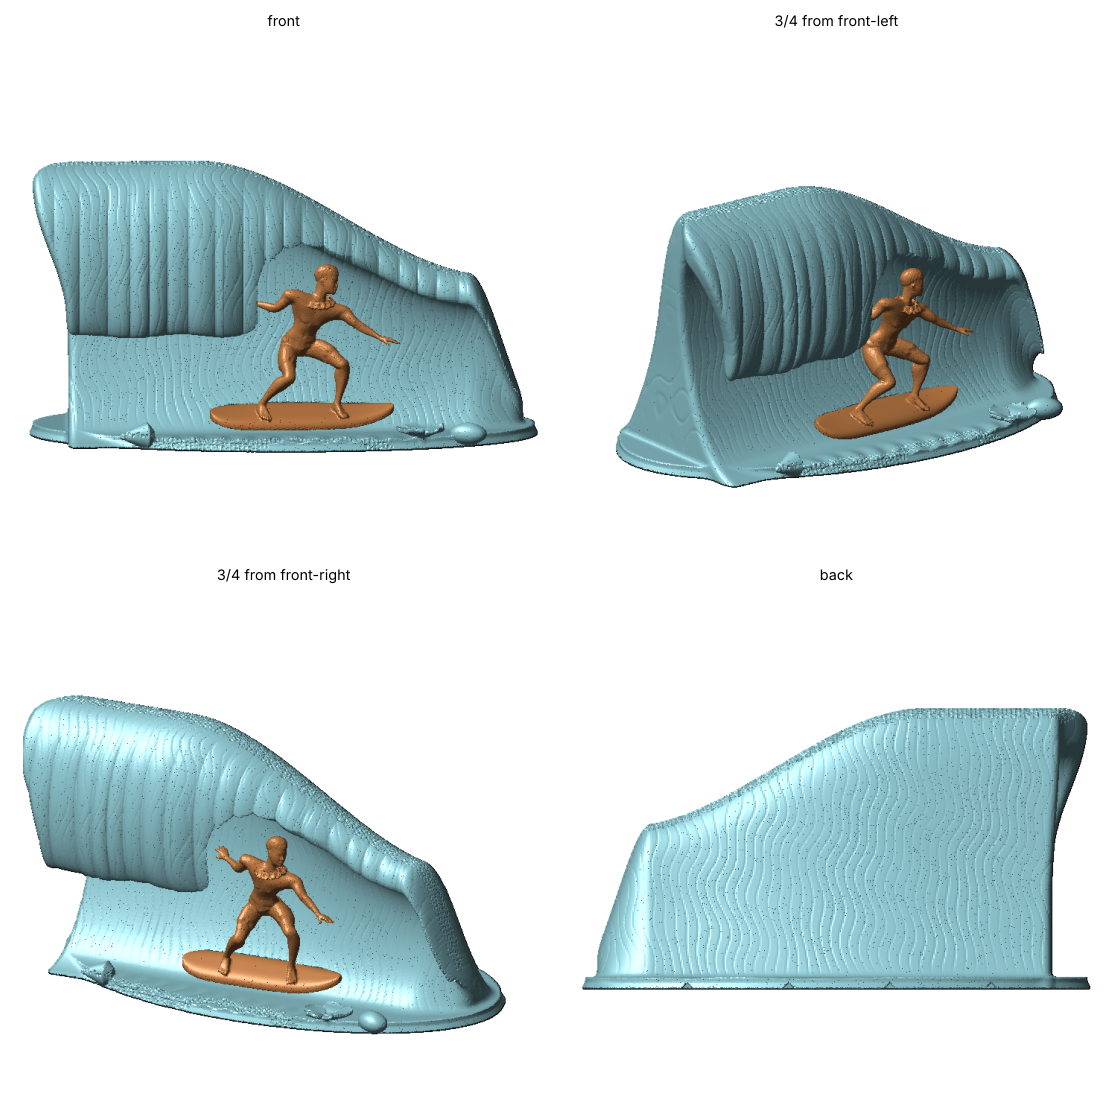
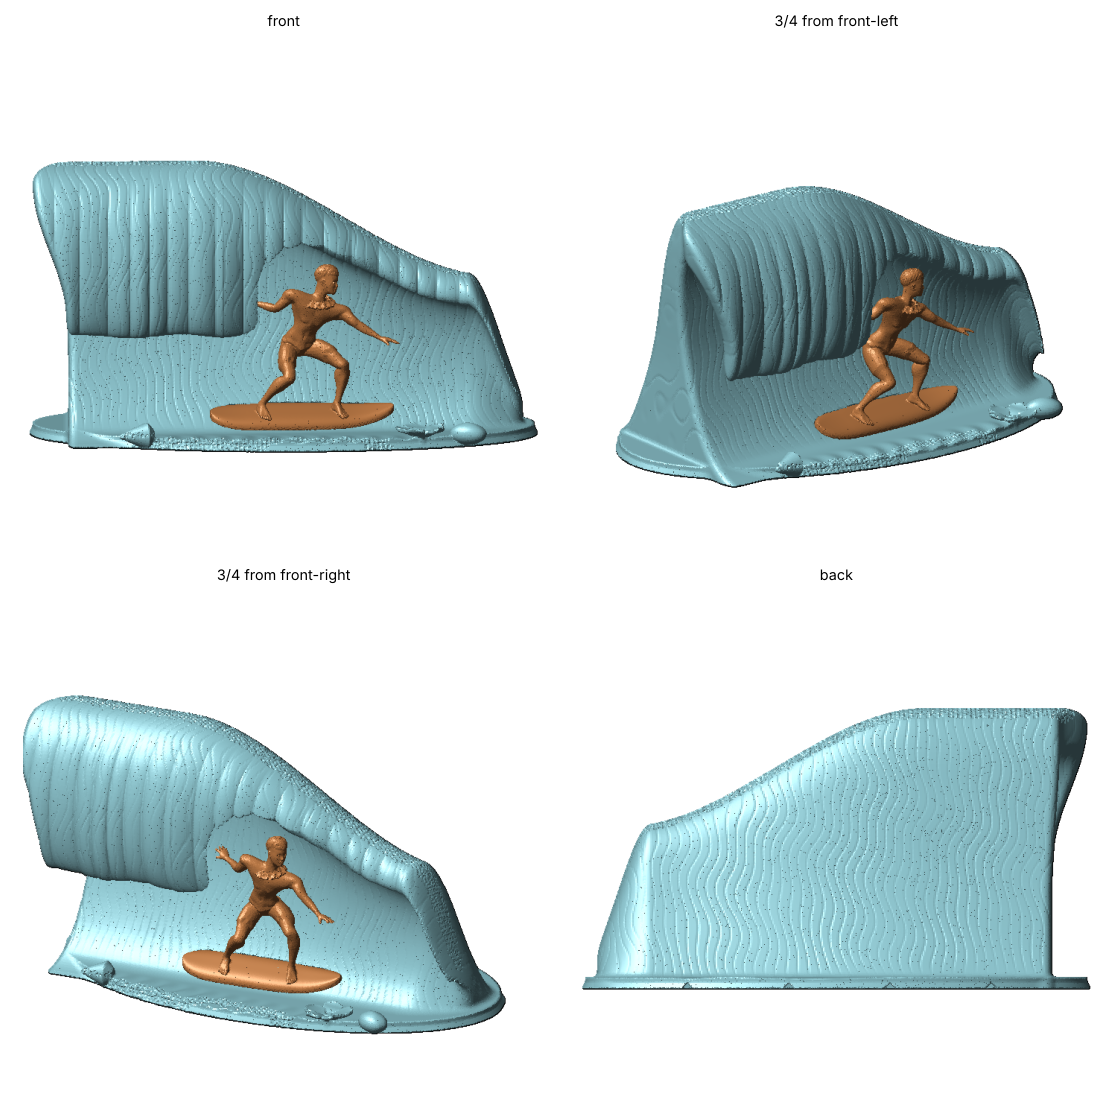
nalu: surfer between detailed and stylized
Lighter smoothing so the face, hands and knees read again; the chest
stays flat and the shorts stay clean.

Claude-Session: https://claude.ai/code/session_017ftLatXiQgThsoC1M9thCT

Changed region(s): [[0.3438, 0.75, 0.375, 0.7812]]

diff --git a/3d-prints/nalu/nalu.py b/3d-prints/nalu/nalu.py
@@ -463,7 +463,7 @@ def body_sdf(G, X, Y, Z, spacing=0.05):
     side_ax = np.cross(ax, [0, 0, 1.0]) + 1e-9
     side_ax /= np.linalg.norm(side_ax)
     g = 0.5 + 0.5 * np.cos(2 * np.pi * (rel @ side_ax + 0.4 * np.sin(rel @ ax * 0.9)) / 0.7)
-    d = d - hm * (0.9 - 0.25 * g ** 4)                   # a carved cap of hair, combed back
+    d = d - hm * (0.95 - 0.3 * g ** 4)                   # hair combed back in shallow waves
     d[far] = 4.0
     G["_last_shorts"] = np.where(far, 0.0, sh[j]).reshape(X.shape).astype(np.float32)
     return d.reshape(X.shape).astype(np.float32)
@@ -528,7 +528,7 @@ def build_surfer(voxel, quiet=False, region=None):
         body = np.minimum(body, lei_sdf(X, Y, Z, G["lei"]))
         vol[sx] = smin(board, body, 0.4)
     say(f"  surfer {time.time() - t0:.0f}s")
-    drape(vol, np.ones_like(vol), voxel, r=0.7)        # carved look: fingers and toes fused, crevices softened
+    drape(vol, np.ones_like(vol), voxel, r=0.35)       # softened: the finest crevices filled, fingers still read
     say(f"  carved {time.time() - t0:.0f}s")
     fill_voids(vol)
     drop_specks(vol, voxel, say)

diff --git a/3d-prints/nalu/surfer.py b/3d-prints/nalu/surfer.py
@@ -95,14 +95,14 @@ def pose(tilt_deg, height=HEIGHT):
         return np.clip(np.asarray(F.W[:, cols].sum(1)).ravel(), 0, 1)
     head = wsum(("head", "neck", "jaw", "eye", "special", "levator", "oris", "orbicularis", "temporalis", "tongue"))
     body = 1 - head
-    V = taubin(V, F.faces, body, iters=25)
-    V = taubin(V, F.faces, 0.5 * head + body * 0, iters=6)
+    V = taubin(V, F.faces, body, iters=10)
+    V = taubin(V, F.faces, 0.5 * head, iters=2)
     chest = wsum(("breast", "spine02", "spine01", "clavicle")) * (F.v_rest[:, 1] / s < 2.8)
-    V = taubin(V, F.faces, chest, iters=80)
+    V = taubin(V, F.faces, chest, iters=60)        # flat chest, no pecs
     seat = wsum(("root", "pelvis", "spine05", "upperleg01"))
-    V = taubin(V, F.faces, seat, iters=60)
+    V = taubin(V, F.faces, seat, iters=30)
     hands = wsum(("finger", "metacarpal", "wrist"))
-    V = taubin(V, F.faces, hands, iters=30)
+    V = taubin(V, F.faces, hands, iters=8)
     # where the shorts and hair go, decided on the standing figure
     R = F.v_rest / s
     knee, hip = 17.0, 32.7
